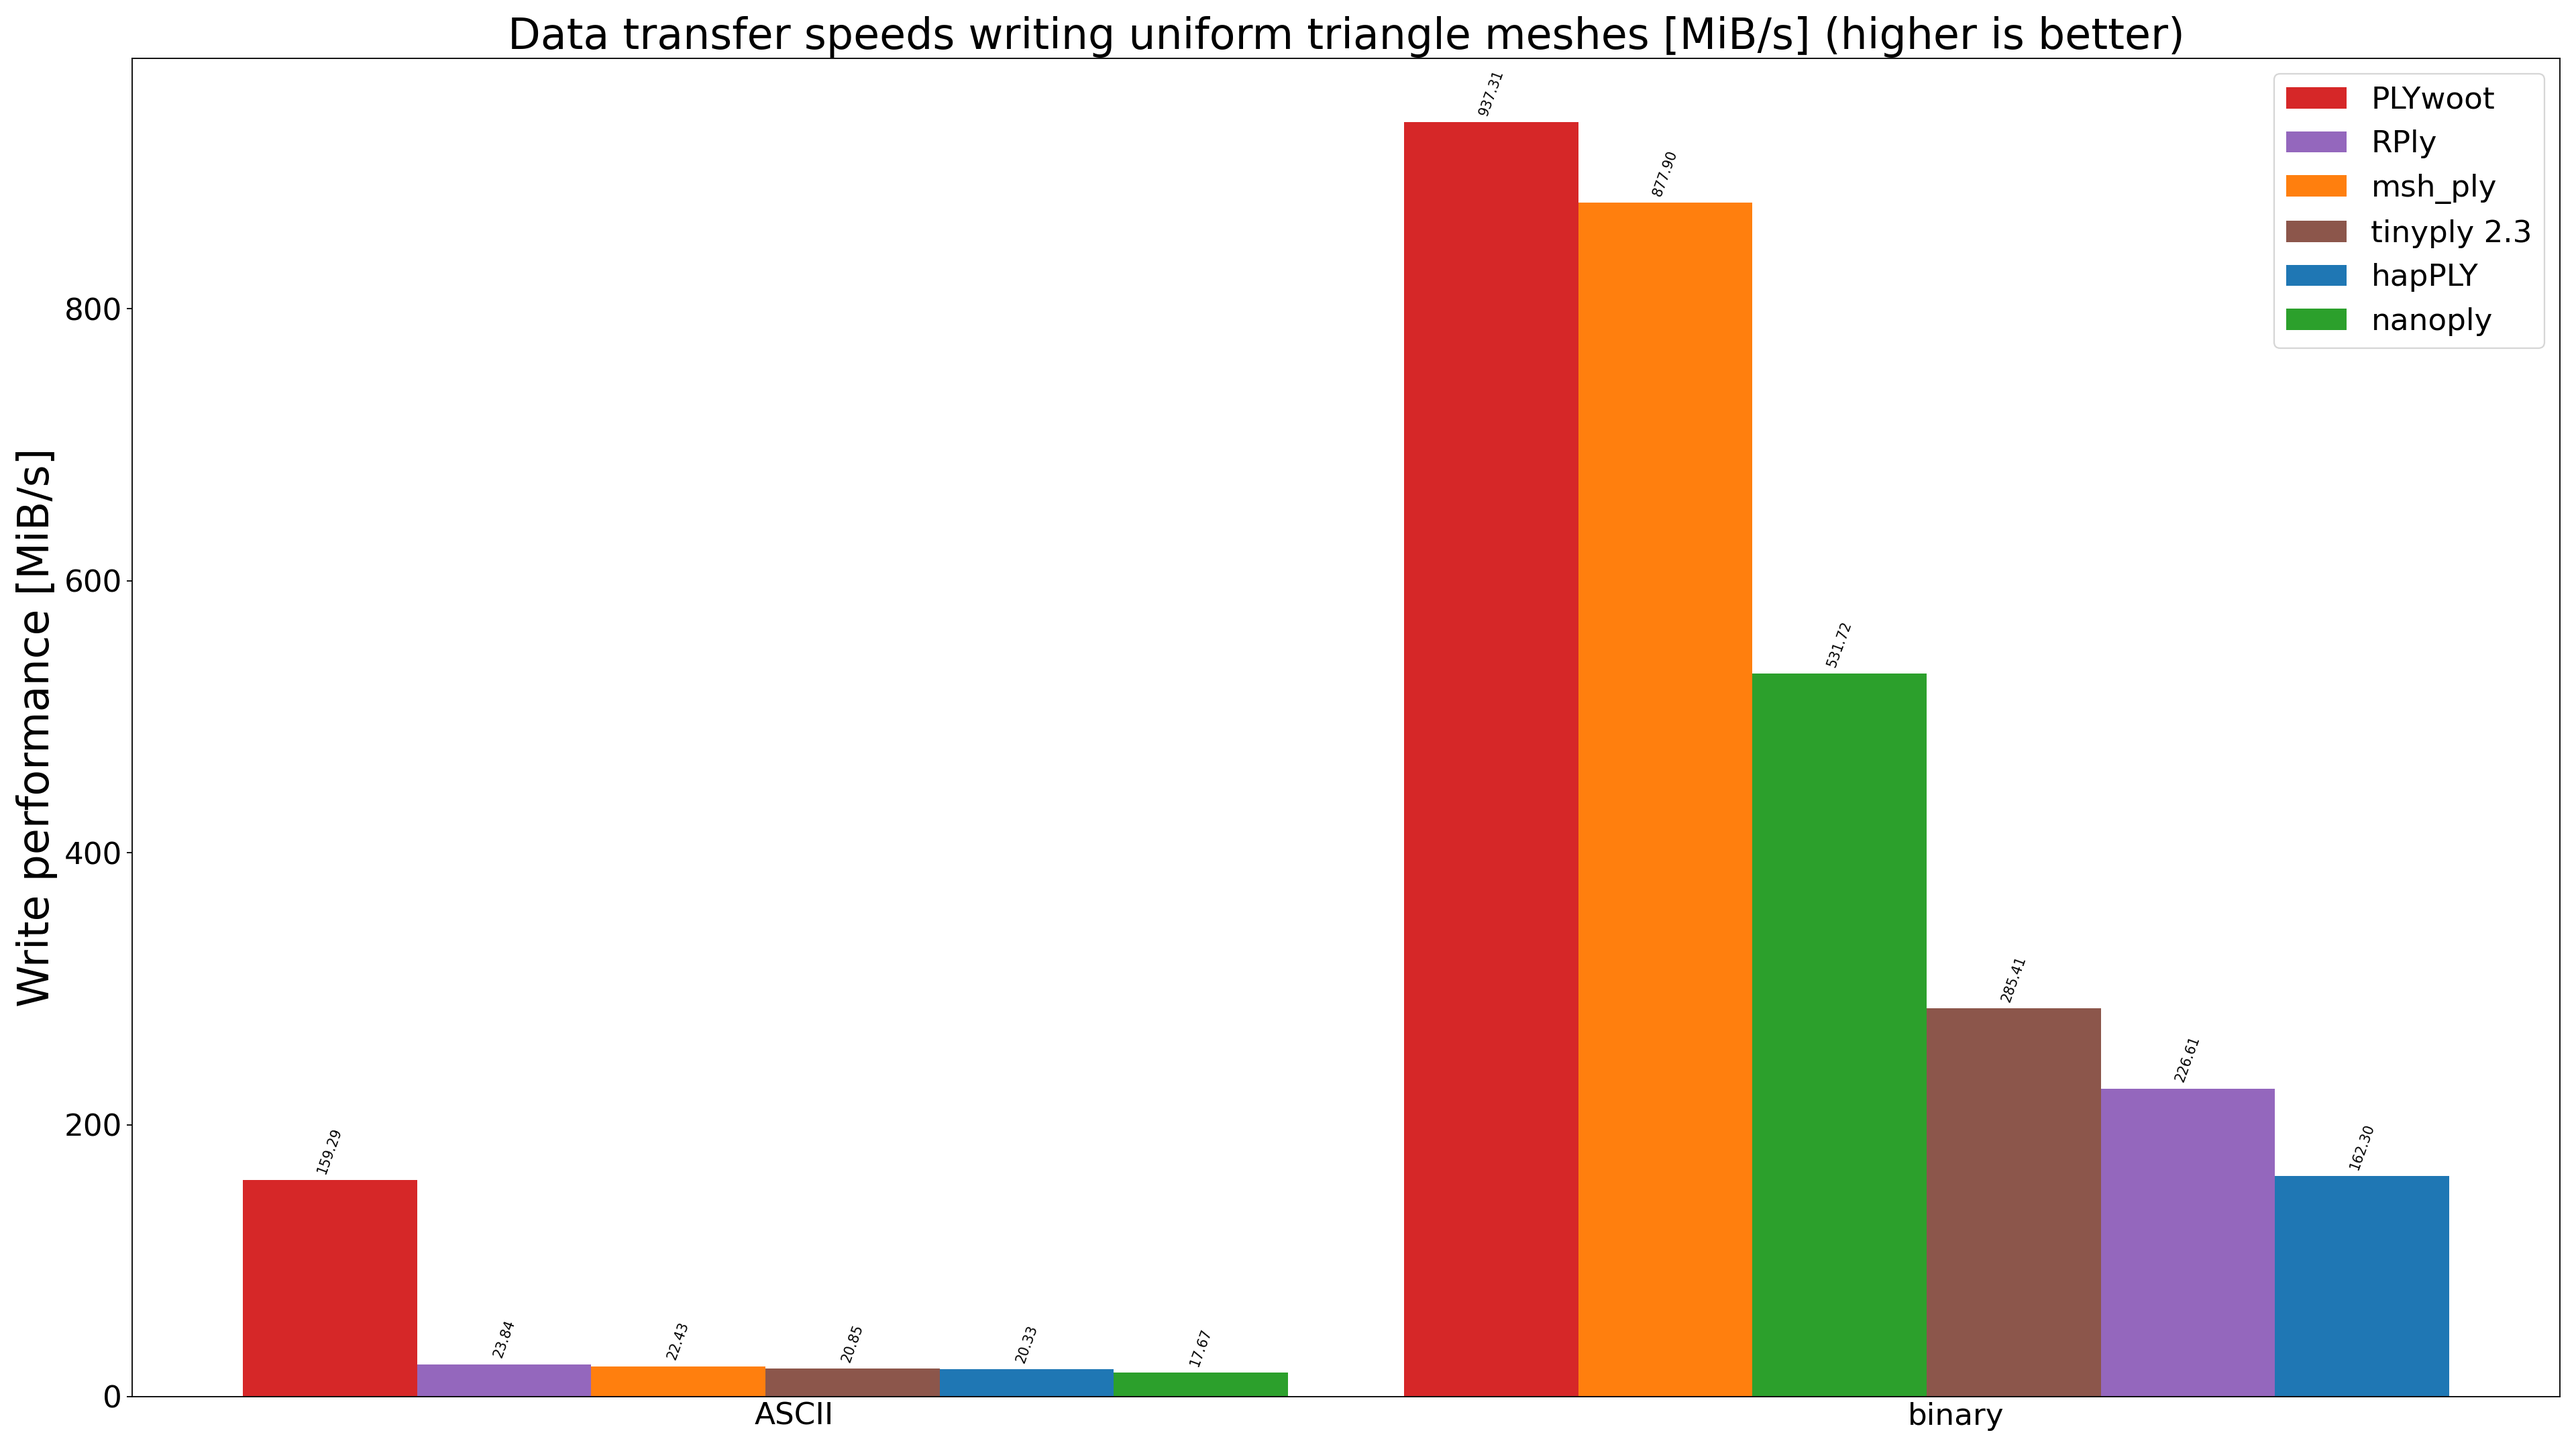
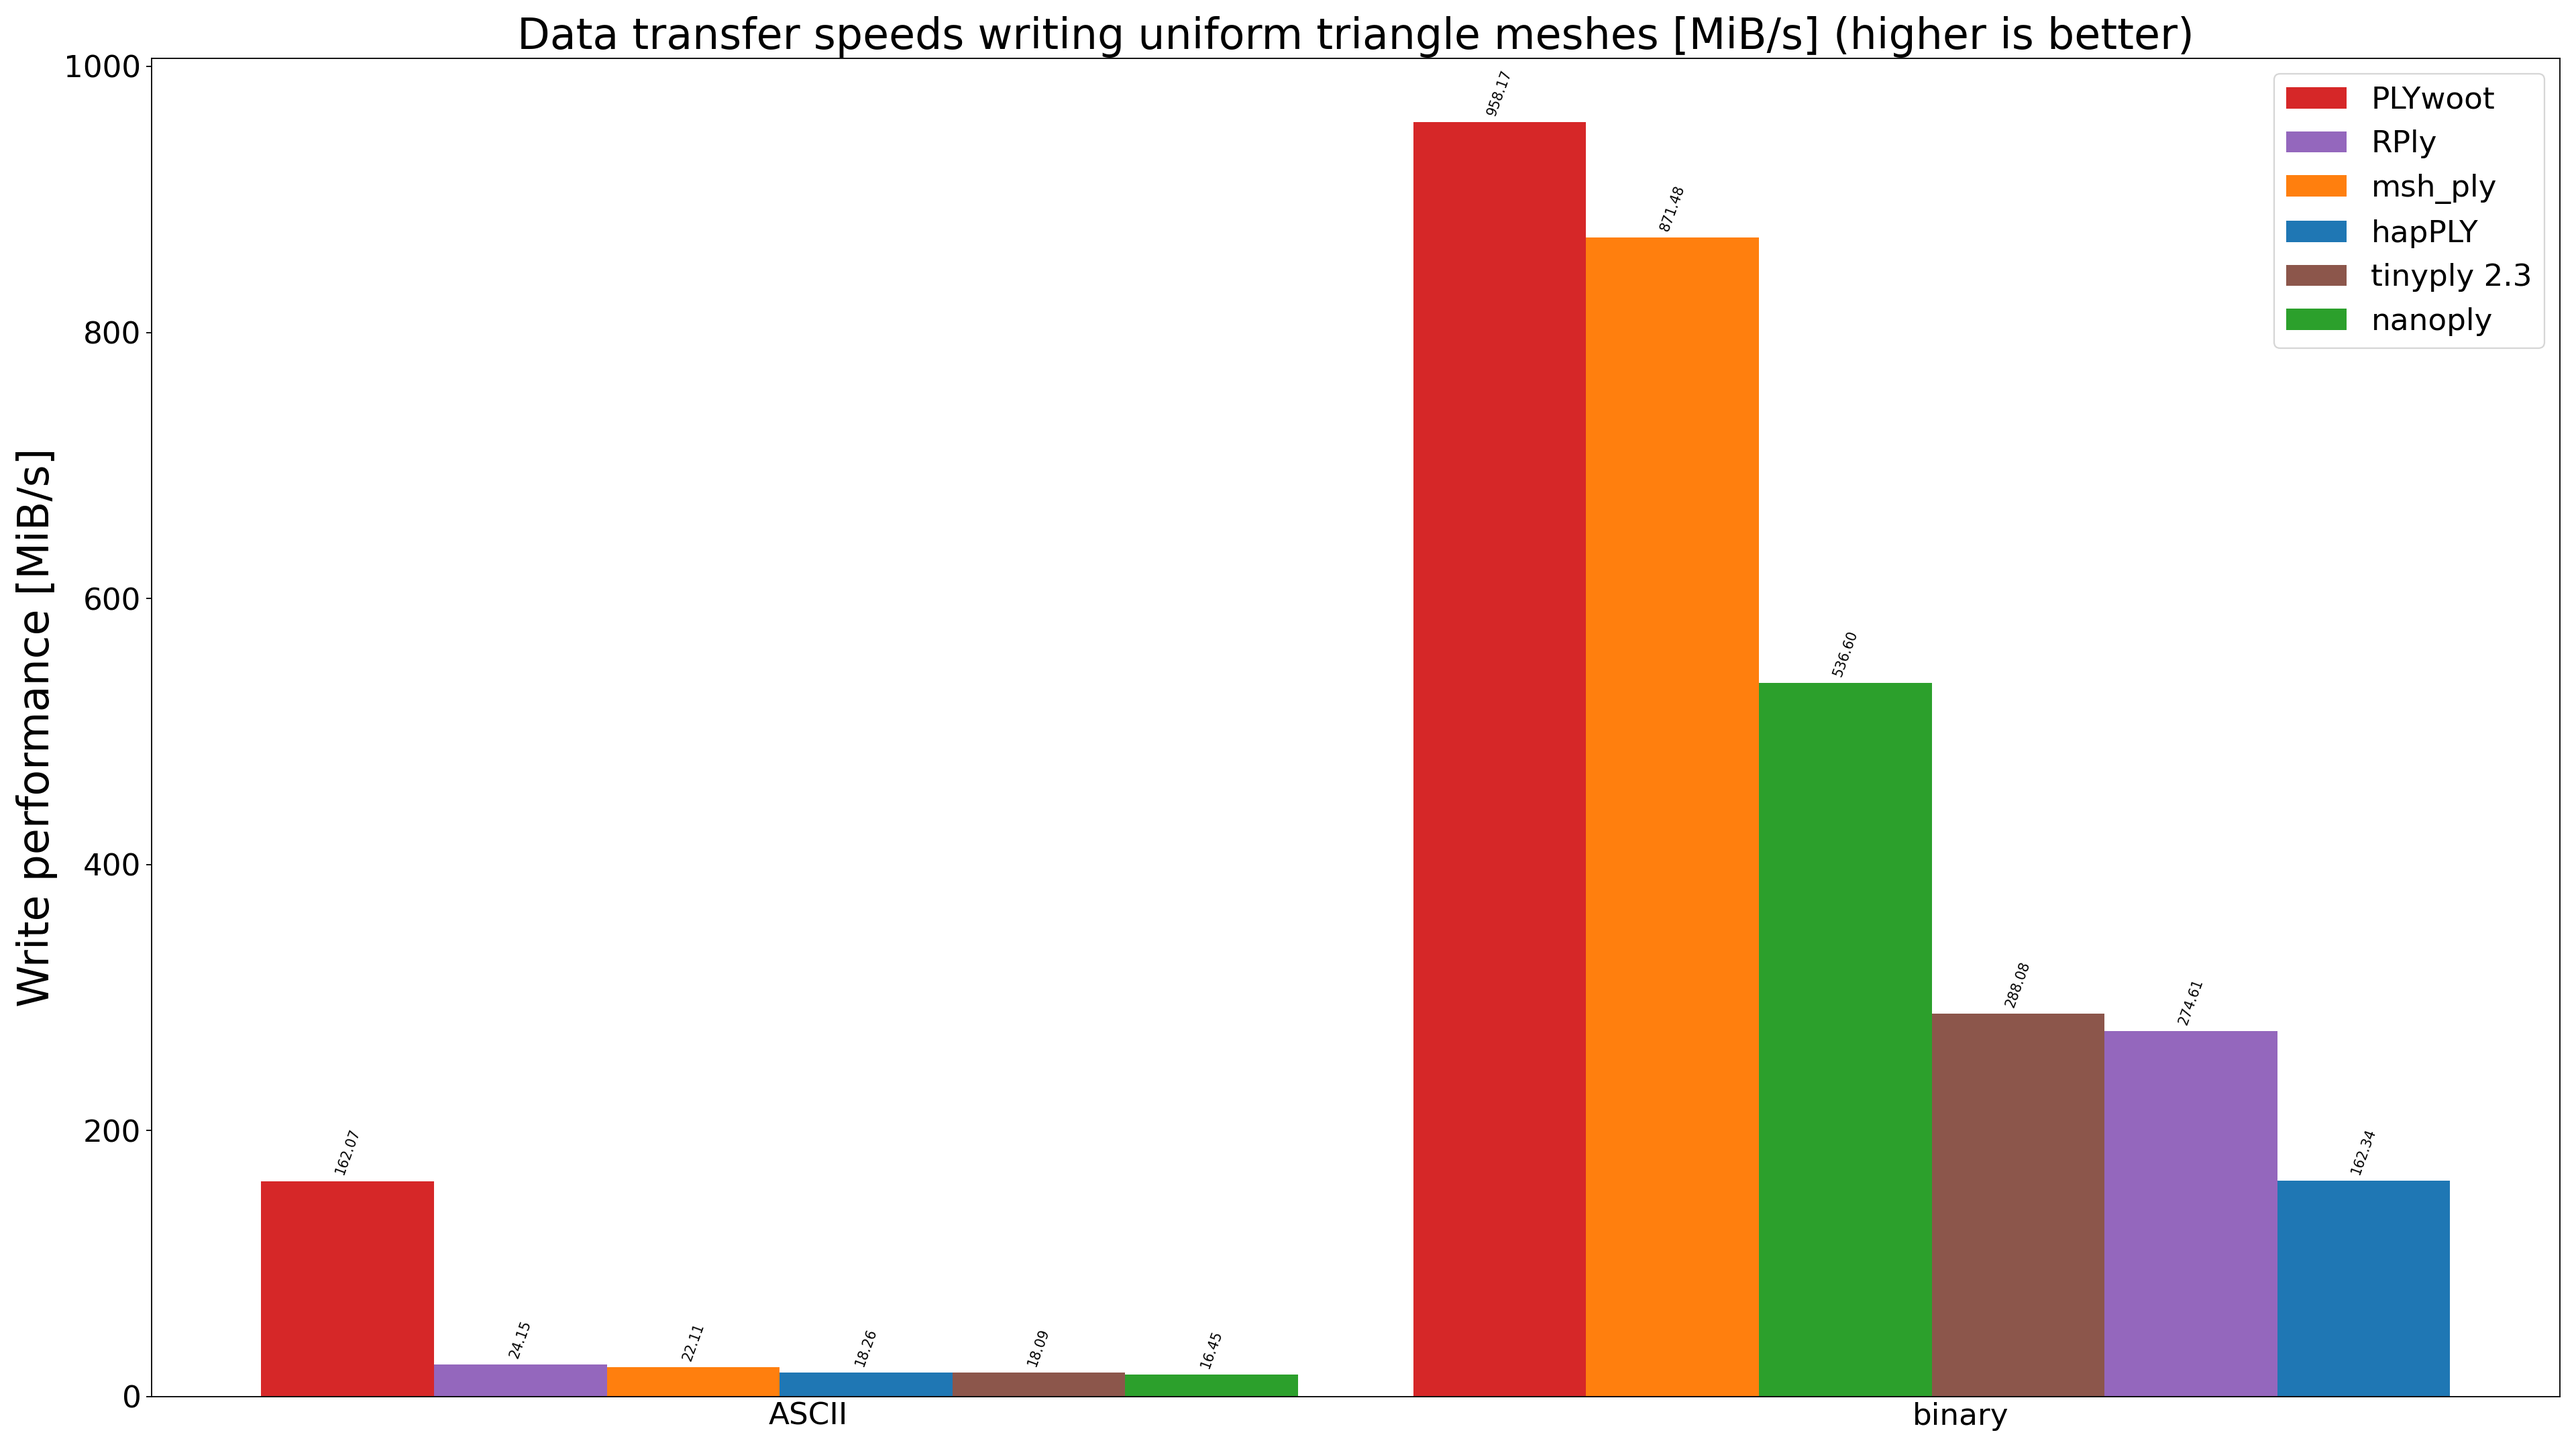
Update results

diff --git a/README.md b/README.md
@@ -47,13 +47,13 @@ The following lists the average relative read performance of each PLY library av
 | # | Library name                                                               | Overall        | ASCII          | Binary big endian | Binary little endian |
 |:-:|:--------------------------------------------------------------------------:|:--------------:|:--------------:|:-----------------:|:--------------------:|
 | 1 | [PLYwoot](https://github.com/ton/plywoot)                                  | *1.00*         | *1.00*         | *1.00*            | *1.00*               |
-| 2 | [miniply](https://github.com/vilya/miniply)                                | 1.70x slower   | 1.51x slower   | 2.44x slower      | 1.14x slower         |
-| 3 | [msh_ply](https://github.com/mhalber/msh)                                  | 3.08x slower   | 5.60x slower   | 2.38x slower      | 1.26x slower         |
-| 4 | [nanoply](https://github.com/cnr-isti-vclab/vcglib/tree/main/wrap/nanoply) | 6.49x slower   | 11.64x slower  | 3.59x slower      | 4.24x slower         |
-| 5 | [tinyply 2.3](https://github.com/ddiakopoulos/tinyply)                     | 7.49x slower   | N/A            | 5.90x slower      | 9.09x slower         |
-| 6 | [plylib](https://github.com/cnr-isti-vclab/vcglib/tree/main/wrap/ply)      | 9.27x slower   | 10.92x slower  | 6.80x slower      | 10.08x slower        |
-| 7 | [RPly](https://w3.impa.br/~diego/software/rply)                            | 10.63x slower  | 7.53x slower   | 10.80x slower     | 13.56x slower        |
-| 8 | [hapPLY](https://github.com/nmwsharp/happly)                               | 17.91x slower  | 27.13x slower  | 11.73x slower     | 14.86x slower        |
+| 2 | [miniply](https://github.com/vilya/miniply)                                | 1.74x slower   | 1.53x slower   | 2.49x slower      | 1.21x slower         |
+| 3 | [msh_ply](https://github.com/mhalber/msh)                                  | 3.36x slower   | 6.26x slower   | 2.47x slower      | 1.33x slower         |
+| 4 | [nanoply](https://github.com/cnr-isti-vclab/vcglib/tree/main/wrap/nanoply) | 6.94x slower   | 12.83x slower  | 3.67x slower      | 4.33x slower         |
+| 5 | [tinyply 2.3](https://github.com/ddiakopoulos/tinyply)                     | 7.65x slower   | N/A            | 6.07x slower      | 9.22x slower         |
+| 6 | [plylib](https://github.com/cnr-isti-vclab/vcglib/tree/main/wrap/ply)      | 9.80x slower   | 11.36x slower  | 7.33x slower      | 10.69x slower        |
+| 7 | [RPly](https://w3.impa.br/~diego/software/rply)                            | 10.93x slower  | 7.63x slower   | 11.16x slower     | 14.01x slower        |
+| 8 | [hapPLY](https://github.com/nmwsharp/happly)                               | 19.29x slower  | 29.52x slower  | 12.71x slower     | 15.64x slower        |
 
 
 The following graph plots average CPU time per model per PLY library (lower numbers are better):
@@ -73,11 +73,11 @@ The following lists the average relative write performance of each PLY library a
 | # | Library name                                                               | Overall        | ASCII          | Binary         |
 |:-:|:--------------------------------------------------------------------------:|:--------------:|:--------------:|:--------------:|
 | 1 | [PLYwoot](https://github.com/ton/plywoot)                                  | *1.00*         | *1.00*         | *1.00*         |
-| 2 | [msh_ply](https://github.com/mhalber/msh)                                  | 4.09x slower   | 7.10x slower   | 1.07x slower   |
-| 3 | [nanoply](https://github.com/cnr-isti-vclab/vcglib/tree/main/wrap/nanoply) | 5.39x slower   | 9.01x slower   | 1.76x slower   |
-| 4 | [RPly](https://w3.impa.br/~diego/software/rply)                            | 5.41x slower   | 6.68x slower   | 4.14x slower   |
-| 5 | [tinyply 2.3](https://github.com/ddiakopoulos/tinyply)                     | 5.46x slower   | 7.64x slower   | 3.28x slower   |
-| 6 | [hapPLY](https://github.com/nmwsharp/happly)                               | 6.81x slower   | 7.84x slower   | 5.78x slower   |
+| 2 | [msh_ply](https://github.com/mhalber/msh)                                  | 4.21x slower   | 7.33x slower   | 1.10x slower   |
+| 3 | [RPly](https://w3.impa.br/~diego/software/rply)                            | 5.10x slower   | 6.71x slower   | 3.49x slower   |
+| 4 | [nanoply](https://github.com/cnr-isti-vclab/vcglib/tree/main/wrap/nanoply) | 5.82x slower   | 9.85x slower   | 1.79x slower   |
+| 5 | [tinyply 2.3](https://github.com/ddiakopoulos/tinyply)                     | 6.14x slower   | 8.96x slower   | 3.33x slower   |
+| 6 | [hapPLY](https://github.com/nmwsharp/happly)                               | 7.39x slower   | 8.88x slower   | 5.90x slower   |
 
 
 The following graph plots average CPU time for writing a fixed triangle mesh with 100.000 semi-random triangles per PLY library (lower numbers are better):
